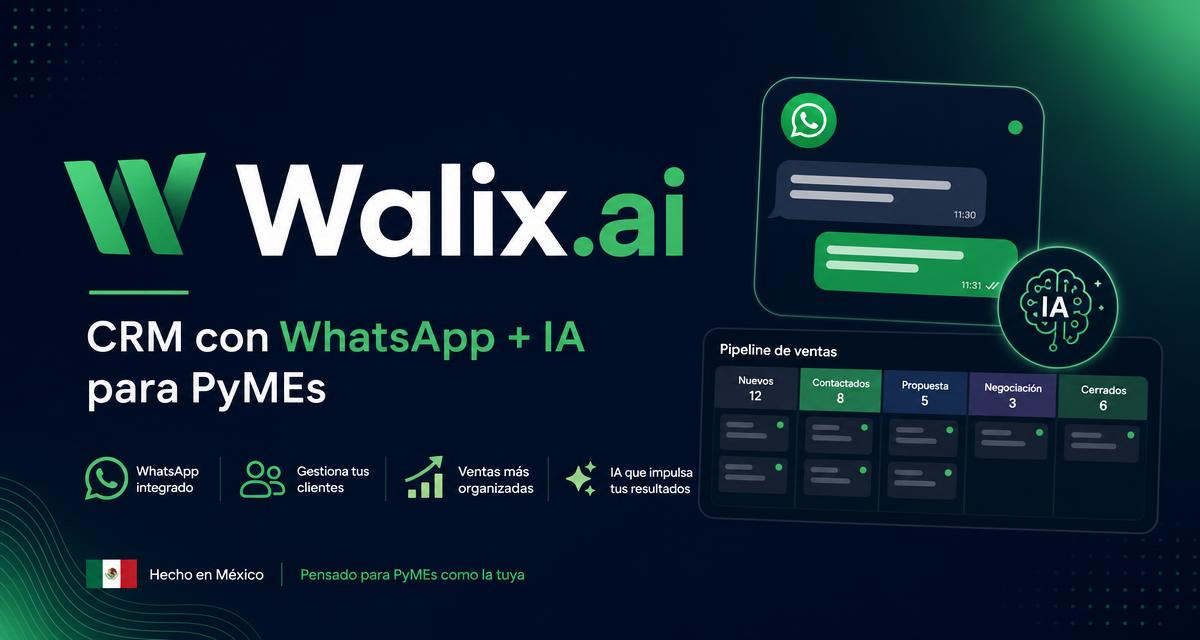
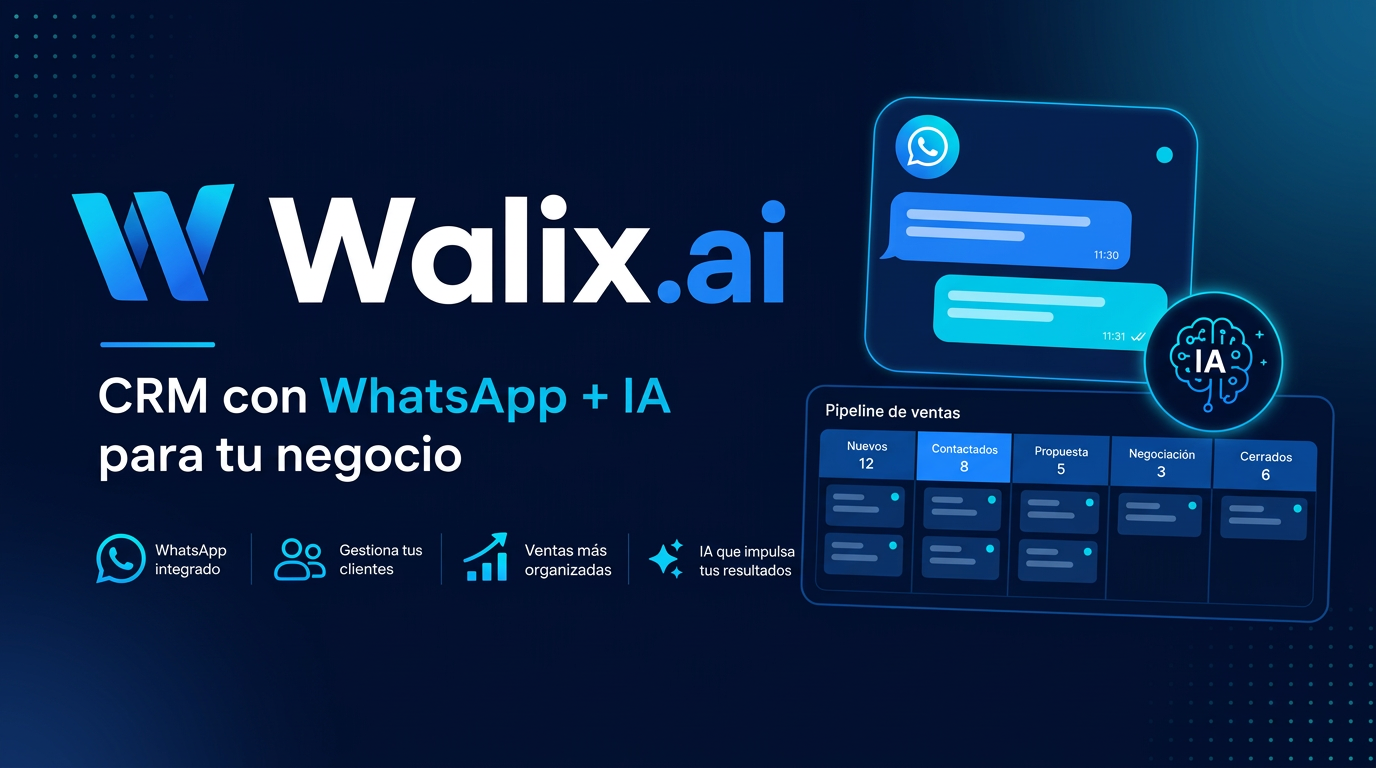
Changes

diff --git a/index.html b/index.html
@@ -3,8 +3,8 @@
   <head>
     <meta charset="UTF-8" />
     <meta name="viewport" content="width=device-width, initial-scale=1.0" />
-    <title>Walix.ai · CRM con WhatsApp + IA para PyMEs</title>
-    <meta name="description" content="CRM mexicano para PyMEs que venden por WhatsApp. Multi-agente, IA integrada, pipeline visual y reportes en tiempo real.">
+    <title>Walix.ai · CRM con WhatsApp + IA para tu negocio</title>
+    <meta name="description" content="CRM para negocios que venden por WhatsApp. Multi-agente, IA integrada, pipeline visual y reportes en tiempo real.">
     <meta name="author" content="Walix.ai" />
 
     
@@ -16,10 +16,10 @@
     <meta name="twitter:card" content="summary_large_image" />
     <meta name="twitter:site" content="@walixai" />
     <meta name="twitter:image" content="https://s1.walix.app/og-walix.jpg">
-    <meta property="og:title" content="Walix.ai · CRM con WhatsApp + IA para PyMEs">
-  <meta name="twitter:title" content="Walix.ai · CRM con WhatsApp + IA para PyMEs">
-  <meta property="og:description" content="CRM mexicano para PyMEs que venden por WhatsApp. Multi-agente, IA integrada, pipeline visual y reportes en tiempo real.">
-  <meta name="twitter:description" content="CRM mexicano para PyMEs que venden por WhatsApp. Multi-agente, IA integrada, pipeline visual y reportes en tiempo real.">
+    <meta property="og:title" content="Walix.ai · CRM con WhatsApp + IA para tu negocio">
+  <meta name="twitter:title" content="Walix.ai · CRM con WhatsApp + IA para tu negocio">
+  <meta property="og:description" content="CRM para negocios que venden por WhatsApp. Multi-agente, IA integrada, pipeline visual y reportes en tiempo real.">
+  <meta name="twitter:description" content="CRM para negocios que venden por WhatsApp. Multi-agente, IA integrada, pipeline visual y reportes en tiempo real.">
   <link rel="icon" type="image/png" href="/favicon.png" />
   <link rel="apple-touch-icon" href="/favicon.png" />
   <link rel="canonical" href="https://s1.walix.app/" />

diff --git a/src/pages/Landing.tsx b/src/pages/Landing.tsx
@@ -187,7 +187,7 @@ function Hero() {
               <span className="grid h-4 w-4 place-items-center rounded-full bg-gradient-brand">
                 <Sparkles className="h-2.5 w-2.5 text-primary-foreground" />
               </span>
-              CRM con IA hecho para PyMEs mexicanas
+              CRM con IA hecho para tu negocio
             </div>
             <h1 className="text-4xl sm:text-5xl lg:text-6xl font-bold tracking-tight leading-[1.05]">
               Si sabes usar <span className="text-gradient-brand">WhatsApp</span>,
@@ -364,7 +364,7 @@ function Testimonials() {
   const stats = [
     { v: "2.3×", l: "más cierres en 30 días" },
     { v: "<3min", l: "tiempo medio de respuesta" },
-    { v: "1,200+", l: "equipos PyME activos" },
+    { v: "1,200+", l: "negocios activos" },
     { v: "98%", l: "de adopción al día 1" },
   ];
   const quotes = [
@@ -537,7 +537,7 @@ function Footer() {
         <div>
           <Logo />
           <p className="mt-4 text-sm text-muted-foreground max-w-xs">
-            El CRM con WhatsApp + IA hecho para PyMEs mexicanas.
+            El CRM con WhatsApp + IA hecho para tu negocio.
           </p>
         </div>
         <FCol title="Producto" links={["Funciones", "Paquetes", "Integraciones", "Novedades"]} />

diff --git a/src/pages/Pricing.tsx b/src/pages/Pricing.tsx
@@ -123,7 +123,7 @@ export default function Pricing() {
           <Link to="/" className="flex items-center gap-3">
             <Logo />
             <span className="hidden md:block text-xs text-muted-foreground border-l border-border pl-3">
-              El CRM para PyMEs que venden por WhatsApp
+              El CRM para tu negocio que vende por WhatsApp
             </span>
           </Link>
           <div className="flex items-center gap-2">
